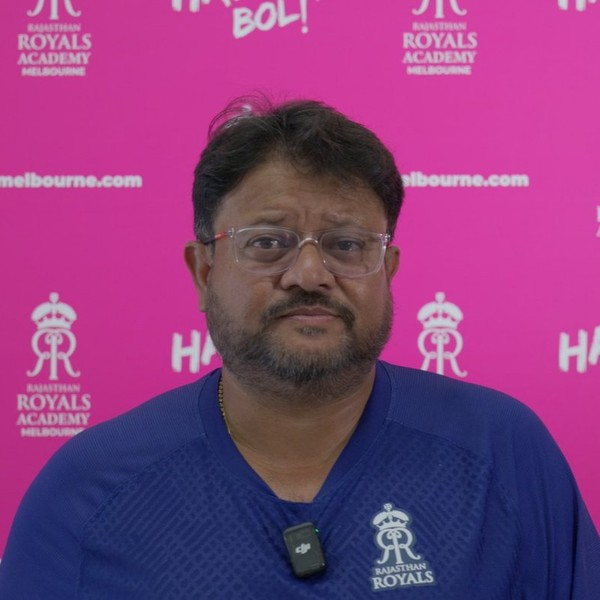
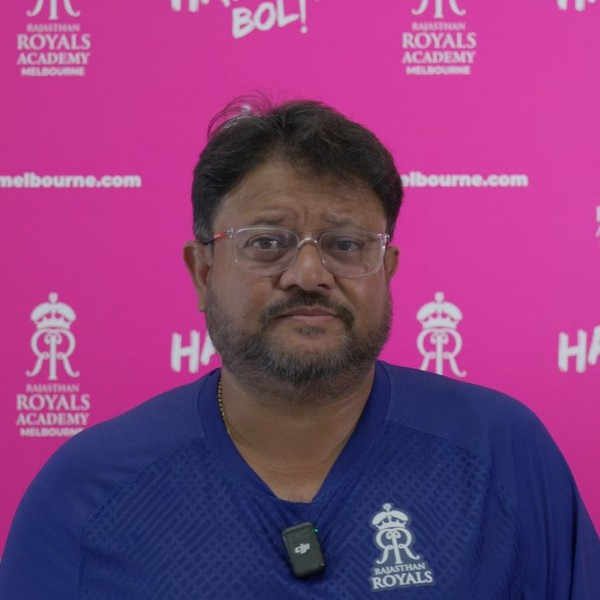
[Homepage] Replace Andy and Sid headshots with new branded photos
- Andy: new RRA Melbourne backdrop photo, face-centred square crop
- Sid: new RRA Melbourne backdrop photo, face-centred square crop
- Image position set to object-top for correct face display in circle

diff --git a/src/components/home-page/HomeCoaches.jsx b/src/components/home-page/HomeCoaches.jsx
@@ -57,7 +57,7 @@ const HomeCoaches = () => {
                                     <img
                                         src={coach.image}
                                         alt={coach.name}
-                                        className="w-20 h-20 rounded-full object-cover object-center"
+                                        className="w-20 h-20 rounded-full object-cover object-top"
                                     />
                                 ) : (
                                     <div className="w-20 h-20 rounded-full flex items-center justify-center font-black text-2xl text-white"
